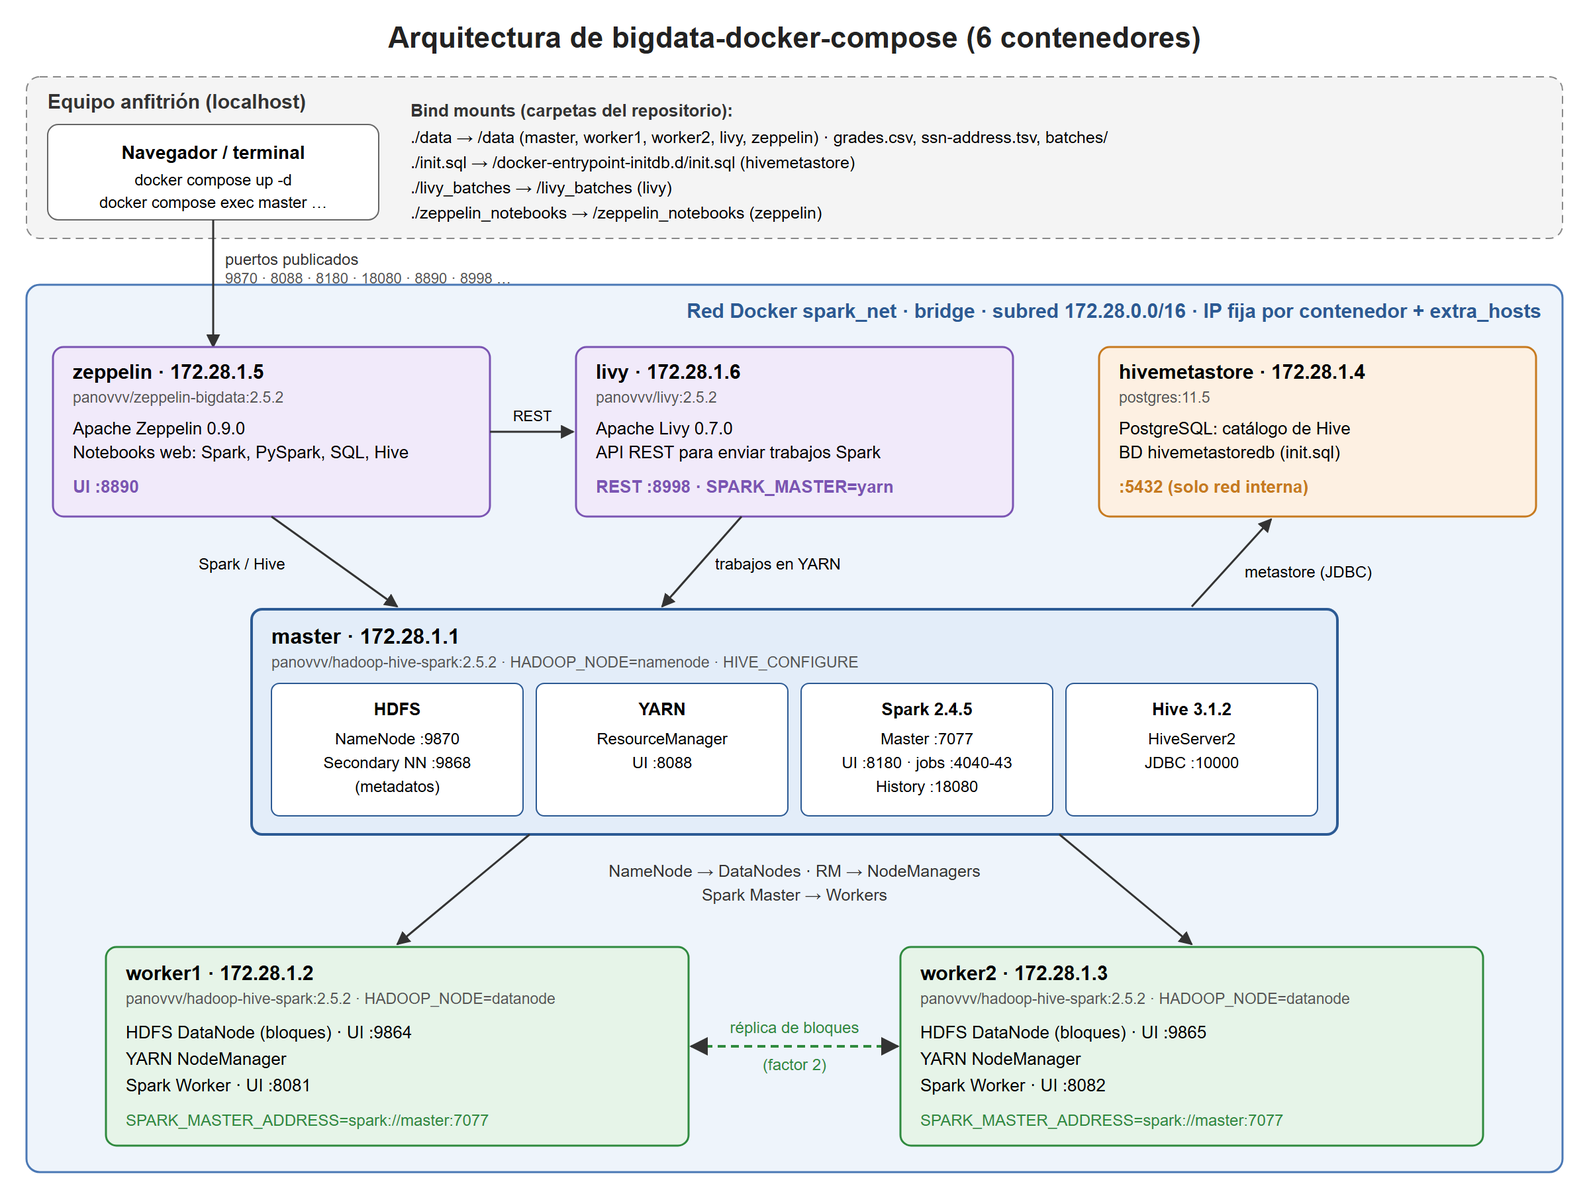
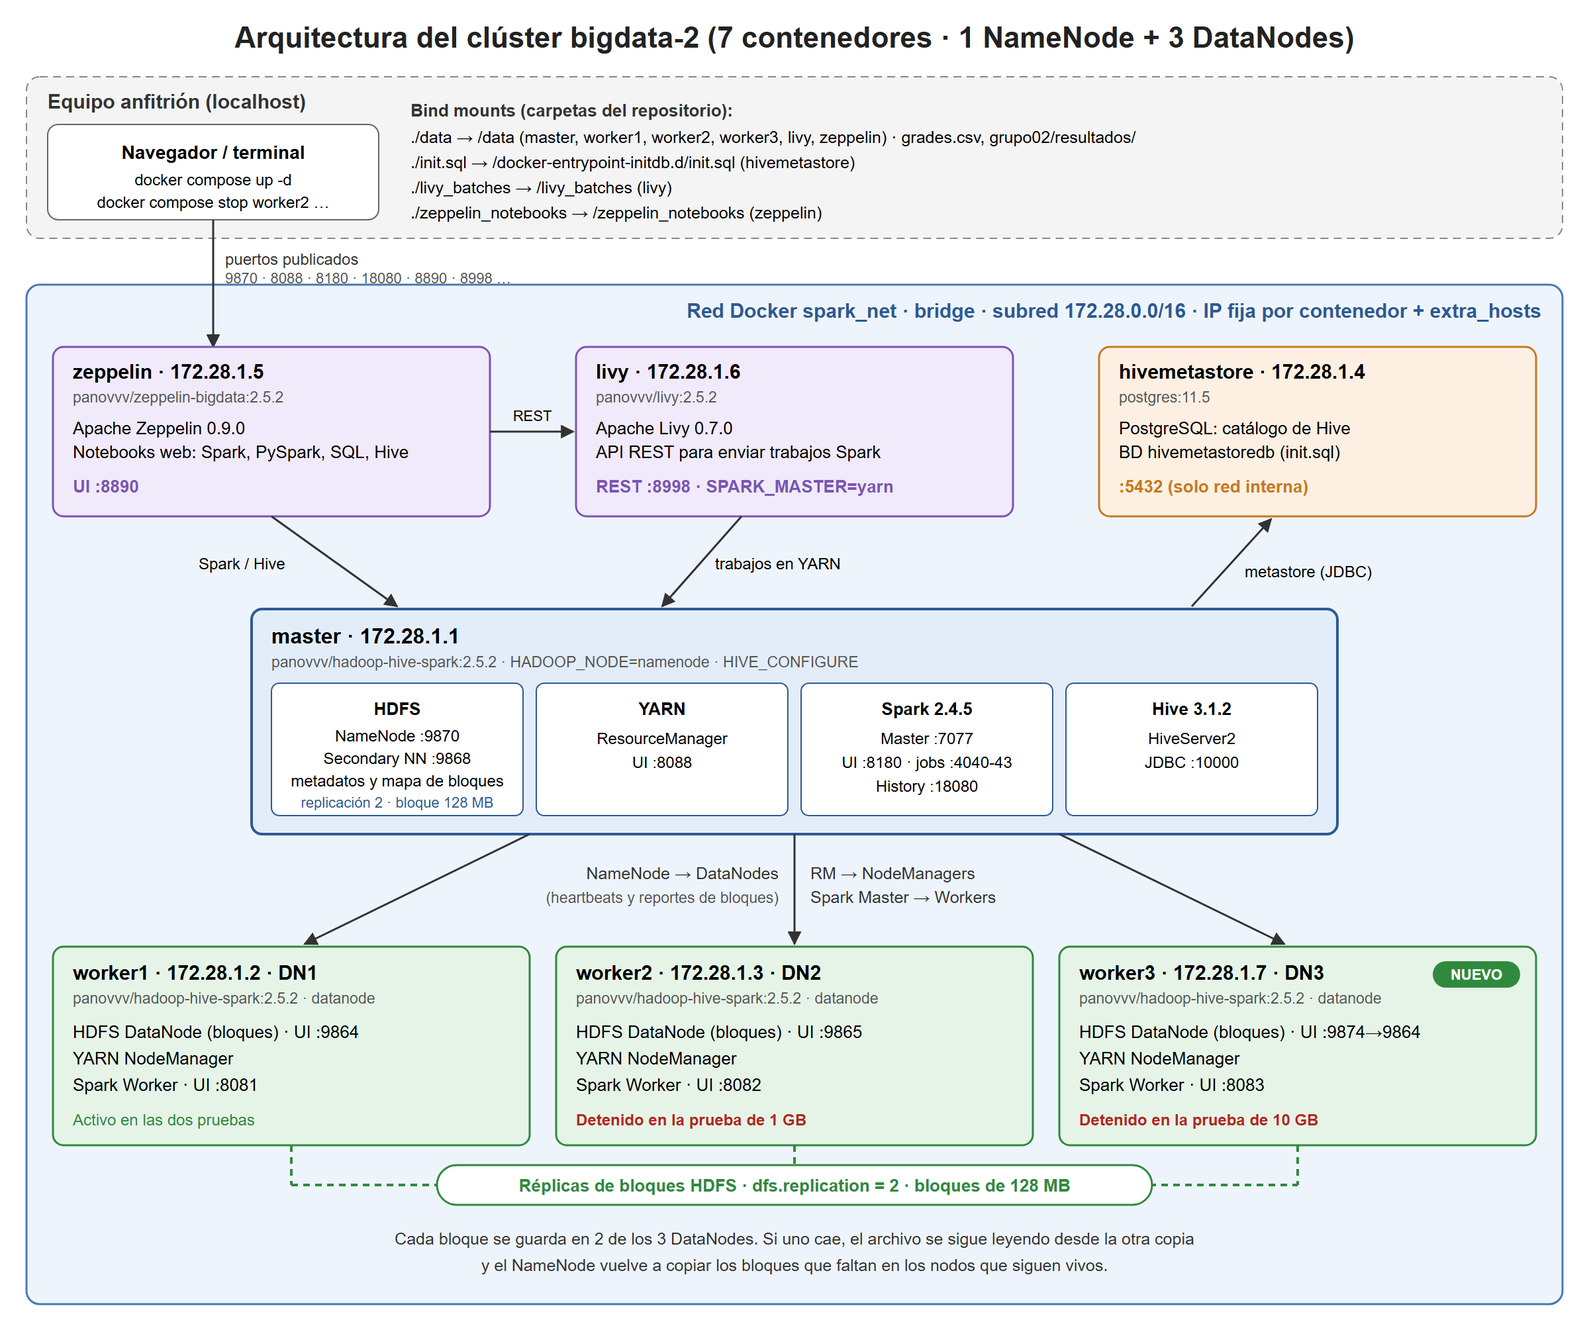
README update

diff --git a/README.md b/README.md
@@ -1,11 +1,14 @@
 # bigdata-2
 
 **LG14: investigación y despliegue de un repositorio Big Data con Docker**
-Universidad Privada del Valle
+**LG15: tolerancia a fallos y replicación de datos en HDFS**
+Universidad Privada del Valle · **Grupo 02**
 
 **Integrantes:** Antonio Santiago Sanchez Angulo, Bonny Alberto Crespo Romero y Mateo Alejandro Valeriano Sanchez
 
 Este repositorio documenta el despliegue y la prueba de **[panovvv/bigdata-docker-compose](https://github.com/panovvv/bigdata-docker-compose)**. Ese proyecto levanta, con un solo `docker compose up -d`, un clúster Big Data con **Hadoop (HDFS + YARN), Hive, Spark, Livy y Zeppelin**.
+
+Para la LG15 ampliamos el clúster a **1 NameNode + 3 DataNodes** (se agregó `worker3`) con factor de replicación 2. Después apagamos un DataNode mientras HDFS guardaba archivos de 1 GB y de 10 GB, para ver qué pasa con los datos. Los resultados están en la [sección 7](#7-lg15-tolerancia-a-fallos-y-replicación-en-hdfs).
 
 ---
 
@@ -46,12 +49,12 @@ Fuente editable: [`docs/arquitectura.svg`](docs/arquitectura.svg)
 
 El clúster sigue el modelo **maestro / trabajadores**:
 - `master` concentra los servicios que coordinan: NameNode, ResourceManager, Spark Master y HiveServer2.
-- `worker1` y `worker2` guardan los datos (DataNode) y ejecutan las tareas (NodeManager y Spark Worker).
+- `worker1`, `worker2` y `worker3` guardan los datos (DataNode) y ejecutan las tareas (NodeManager y Spark Worker). `worker3` se agregó en la LG15 para tener 3 DataNodes.
 - Alrededor hay tres servicios de apoyo: PostgreSQL para el catálogo de Hive, Livy (API REST) y Zeppelin (notebooks).
 
 ### Contenedores
 
-Docker Compose crea **6 contenedores**, llamados `<carpeta>-<servicio>-1` (por ejemplo `bigdata-2-master-1`).
+Docker Compose crea **7 contenedores**, llamados `<carpeta>-<servicio>-1` (por ejemplo `bigdata-2-master-1`).
 
 | Servicio | Imagen | IP (spark_net) | Función | Puertos publicados en el host |
 |---|---|---|---|---|
@@ -59,16 +62,17 @@ Docker Compose crea **6 contenedores**, llamados `<carpeta>-<servicio>-1` (por e
 | `master` | panovvv/hadoop-hive-spark:2.5.2 | 172.28.1.1 | NameNode y Secondary NameNode (HDFS), ResourceManager (YARN), Spark Master, Spark History Server y HiveServer2 | 9870, 9868, 8088, 8180→8080, 4040-4043, 18080, 10000 |
 | `worker1` | panovvv/hadoop-hive-spark:2.5.2 | 172.28.1.2 | DataNode (guarda los bloques), NodeManager y Spark Worker | 9864, 8081 |
 | `worker2` | panovvv/hadoop-hive-spark:2.5.2 | 172.28.1.3 | Igual que worker1. Permite replicar los bloques con factor 2 | 9865, 8082 |
+| `worker3` | panovvv/hadoop-hive-spark:2.5.2 | 172.28.1.7 | Tercer DataNode, agregado en la LG15. Permite que HDFS re-replique cuando cae otro nodo | 9874→9864, 8083 |
 | `livy` | panovvv/livy:2.5.2 | 172.28.1.6 | API REST para enviar sesiones y trabajos Spark a YARN | 8998 |
 | `zeppelin` | panovvv/zeppelin-bigdata:2.5.2 | 172.28.1.5 | Notebooks web para Spark (Scala, PySpark, SQL) y Hive | 8890 |
 
-`master`, `worker1`, `worker2` y `livy` declaran `expose: 1-65535`: todos sus puertos son accesibles **dentro** de la red. Por ejemplo, el puerto 7077 del Spark Master, al que se conectan los workers, no se publica al host.
+`master`, los tres workers y `livy` declaran `expose: 1-65535`: todos sus puertos son accesibles **dentro** de la red. Por ejemplo, el puerto 7077 del Spark Master, al que se conectan los workers, no se publica al host.
 
 ### Red
 
 - Una sola red personalizada, `spark_net` (driver bridge, IPAM con subred `172.28.0.0/16`). Docker la nombra `<carpeta>_spark_net`.
-- Cada contenedor tiene una **IP fija** (`ipv4_address`), de 172.28.1.1 a 172.28.1.6.
-- Cada servicio declara `extra_hosts`, que agrega al `/etc/hosts` los nombres `master`, `worker1`, `worker2`, `hivemetastore`, `livy` y `zeppelin`. Es necesario porque Hadoop y Spark identifican a los nodos por nombre de host.
+- Cada contenedor tiene una **IP fija** (`ipv4_address`), de 172.28.1.1 a 172.28.1.7 (`worker3` usa la 172.28.1.7).
+- Cada servicio declara `extra_hosts`, que agrega al `/etc/hosts` los nombres `master`, `worker1`, `worker2`, `worker3`, `hivemetastore`, `livy` y `zeppelin`. Es necesario porque Hadoop y Spark identifican a los nodos por nombre de host.
 
 ### Volúmenes
 
@@ -76,7 +80,7 @@ No hay volúmenes con nombre; solo **bind mounts** (carpetas del repositorio mon
 
 | Origen (host) | Destino (contenedor) | Contenedores | Uso |
 |---|---|---|---|
-| `./data` | `/data` | master, worker1, worker2, livy, zeppelin | Datos de ejemplo (`grades.csv`, `ssn-address.tsv`) y `batches/sample_batch.py` |
+| `./data` | `/data` | master, worker1, worker2, worker3, livy, zeppelin | Datos de ejemplo (`grades.csv`, `ssn-address.tsv`), `batches/sample_batch.py` y los resultados de la LG15 (`grupo02/resultados/`) |
 | `./init.sql` | `/docker-entrypoint-initdb.d/init.sql` | hivemetastore | PostgreSQL lo ejecuta en el primer arranque y crea la BD `hivemetastoredb` |
 | `./livy_batches` | `/livy_batches` | livy | Trabajos batch para Livy |
 | `./zeppelin_notebooks` | `/zeppelin_notebooks` | zeppelin | Notebooks de Zeppelin (persisten en el host) |
@@ -86,12 +90,12 @@ Consecuencia: los bloques y metadatos de HDFS y la base del metastore viven **de
 ### Dependencias entre servicios (`depends_on`)
 
 ```
-hivemetastore ──► master, worker1, worker2 ──► livy ──► zeppelin
+hivemetastore ──► master, worker1, worker2, worker3 ──► livy ──► zeppelin
 ```
 
 | Servicio | Arranca después de |
 |---|---|
-| `master`, `worker1`, `worker2` | `hivemetastore` |
+| `master`, `worker1`, `worker2`, `worker3` | `hivemetastore` |
 | `livy` | `master`, `worker1`, `worker2` |
 | `zeppelin` | `master`, `worker1`, `worker2`, `livy` |
 
@@ -105,12 +109,13 @@ hivemetastore ──► master, worker1, worker2 ──► livy ──► zeppel
 | master | `HADOOP_NODE` | `namenode` | Hace que la imagen arranque como nodo maestro (NameNode, ResourceManager…) |
 | master | `HIVE_CONFIGURE` | `yes, please` | Configura e inicia Hive (HiveServer2 + metastore en PostgreSQL) |
 | master | `SPARK_MASTER_HOST`, `SPARK_LOCAL_IP` | `172.28.1.1` | IP en la que escucha el Spark Master |
-| master / workers | `SPARK_LOCAL_HOSTNAME` | `master` / `worker1` / `worker2` | Nombre con el que Spark se anuncia |
+| master / workers | `SPARK_LOCAL_HOSTNAME` | `master` / `worker1` / `worker2` / `worker3` | Nombre con el que Spark se anuncia |
 | master / workers | `SPARK_PUBLIC_DNS` | `localhost` | Para que los enlaces de las UIs de Spark apunten a localhost |
 | workers | `HADOOP_NODE` | `datanode` | Arranca DataNode y NodeManager |
 | workers | `SPARK_MASTER_ADDRESS` | `spark://master:7077` | Master al que se registra el Spark Worker |
-| workers | `SPARK_WORKER_PORT` / `SPARK_WORKER_WEBUI_PORT` | 8881/8081 y 8882/8082 | Puertos distintos para cada worker |
+| workers | `SPARK_WORKER_PORT` / `SPARK_WORKER_WEBUI_PORT` | 8881/8081, 8882/8082 y 8883/8083 | Puertos distintos para cada worker |
 | worker2 | `HADOOP_DATANODE_UI_PORT` | `9865` | Evita el choque con el 9864 de worker1 en el host |
+| worker3 | (mapeo de puertos) | `9874:9864` | La UI del DataNode sigue en el 9864 dentro del contenedor y se publica en el 9874 del host |
 | livy | `SPARK_MASTER` | `yarn` | Livy envía los trabajos Spark a YARN |
 | livy | `LOCAL_DIR_WHITELIST` | `/data/batches/` | Carpeta desde la que Livy puede ejecutar scripts |
 | livy | `ENABLE_HIVE_CONTEXT` | `false` | Sesiones Spark sin soporte de Hive |
@@ -121,7 +126,7 @@ hivemetastore ──► master, worker1, worker2 ──► livy ──► zeppel
 
 | Archivo | Descripción |
 |---|---|
-| [`docker-compose.yml`](docker-compose.yml) | Define los 6 servicios, sus imágenes, puertos, variables de entorno, volúmenes, dependencias y la red `spark_net`. Usa `version: "3.7"`; Compose v2 avisa que ese atributo es obsoleto y lo ignora |
+| [`docker-compose.yml`](docker-compose.yml) | Define los 7 servicios (incluido `worker3`), sus imágenes, puertos, variables de entorno, volúmenes, dependencias y la red `spark_net`. Usa `version: "3.7"`; Compose v2 avisa que ese atributo es obsoleto y lo ignora |
 | [`init.sql`](init.sql) | `CREATE DATABASE "hivemetastoredb";`: crea la base que usa el Hive Metastore |
 | [`data/batches/sample_batch.py`](data/batches/sample_batch.py) | Trabajo PySpark de ejemplo para enviar con Livy |
 | `*-site.xml` (dentro de la imagen) | `core-site.xml`, `hdfs-site.xml`, `yarn-site.xml`, `hive-site.xml` y `spark-defaults.conf` no están en este repositorio: vienen dentro de la imagen `panovvv/hadoop-hive-spark`, y el script de arranque (`/entrypoint.sh`) aplica las variables de entorno de cada servicio |
@@ -130,12 +135,19 @@ hivemetastore ──► master, worker1, worker2 ──► livy ──► zeppel
 
 ```
 bigdata-2/
-├── docker-compose.yml     # Definición del clúster (6 servicios, red spark_net)
+├── docker-compose.yml     # Definición del clúster (7 servicios, 3 DataNodes, red spark_net)
 ├── init.sql               # Crea la BD hivemetastoredb en PostgreSQL
 ├── data/                  # Montado en /data
 │   ├── grades.csv
 │   ├── ssn-address.tsv
-│   └── batches/sample_batch.py
+│   ├── batches/sample_batch.py
+│   └── grupo02/resultados/          # Evidencias de la LG15
+│       ├── 1GB_antes.txt            # fsck antes de apagar worker2
+│       ├── 1GB_despues.txt          # fsck después de la re-replicación
+│       ├── 1GB_linea_tiempo.txt     # cronología de la prueba de 1 GB
+│       ├── 10GB_antes.txt           # fsck antes de apagar worker3
+│       ├── 10GB_despues.txt         # fsck después de la re-replicación
+│       └── 10GB_linea_tiempo.txt    # cronología de la prueba de 10 GB
 └── docs/
     ├── arquitectura.png   # Diagrama de arquitectura
     └── arquitectura.svg   # Diagrama (fuente editable)
@@ -143,7 +155,7 @@ bigdata-2/
 
 ## 5. Instalación y ejecución
 
-**Requisitos:** Docker Desktop con Docker Compose v2, unos 10 GB libres para las imágenes y **al menos 8 GB de RAM asignados a Docker**, como recomienda el autor del proyecto original.
+**Requisitos:** Docker Desktop con Docker Compose v2, unos 10 GB libres para las imágenes y **al menos 8 GB de RAM asignados a Docker**, como recomienda el autor del proyecto original. Para la prueba de 10 GB de la LG15 hacen falta unos **35 GB libres** más: el archivo ocupa 20 GB en HDFS por las 2 réplicas, y además se genera una vez en local.
 
 ```bash
 # 1. Clonar e ingresar al repositorio
@@ -157,11 +169,12 @@ cat docker-compose.yml
 # 3. Construir y ejecutar (descarga las imágenes la primera vez)
 docker compose up -d
 
-# 4. Verificar los contenedores
+# 4. Verificar los contenedores (deben aparecer 7, incluido worker3)
 docker ps
 
 # 5. Entrar al nodo maestro para usar HDFS
 docker compose exec master bash
+#    En Git Bash para Windows: winpty docker compose exec master bash
 
 # 6. Apagar el clúster (borra los datos de HDFS)
 docker compose down
@@ -175,14 +188,14 @@ Interfaces web:
 | YARN ResourceManager | http://localhost:8088 |
 | Spark Master | http://localhost:8180 |
 | Spark History Server | http://localhost:18080 |
-| DataNodes | http://localhost:9864 · http://localhost:9865 |
-| Spark Workers | http://localhost:8081 · http://localhost:8082 |
+| DataNodes | http://localhost:9864 · http://localhost:9865 · http://localhost:9874 |
+| Spark Workers | http://localhost:8081 · http://localhost:8082 · http://localhost:8083 |
 | Zeppelin | http://localhost:8890 |
 | Livy | http://localhost:8998 |
 
 ## 6. Prueba funcional (HDFS)
 
-Comandos ejecutados dentro del contenedor `master`:
+Esta prueba es de la LG14, cuando el clúster todavía tenía 2 DataNodes. Comandos ejecutados dentro del contenedor `master`:
 
 ```bash
 hdfs dfsadmin -report                              # estado del clúster
@@ -210,23 +223,136 @@ hdfs fsck /user/grupo/prueba -files -blocks -locations
 - El archivo ocupa un solo bloque de 764 bytes. HDFS no reserva los 128 MB del tamaño de bloque.
 - Los avisos `SLF4J: multiple bindings` y `Unable to load native-hadoop library` son informativos. El estado `unhealthy` que muestra `docker ps` en algunos contenedores viene del healthcheck de la imagen y no afectó a HDFS.
 
-## 7. Comparación con big-data-europe/docker-hadoop
+## 7. LG15: tolerancia a fallos y replicación en HDFS
+
+**Objetivo:** comprobar con evidencias qué le pasa a un archivo guardado en HDFS cuando se cae uno de los DataNodes. Usamos un clúster de 1 NameNode y 3 DataNodes, factor de replicación 2, y archivos de 1 GB y 10 GB.
+
+### 7.1 Configuración
+
+| Componente | Requerido | Implementado |
+|---|---|---|
+| NameNode | 1 | `master` (172.28.1.1) |
+| DataNodes | 3 | `worker1` (DN1, 172.28.1.2), `worker2` (DN2, 172.28.1.3) y `worker3` (DN3, 172.28.1.7) |
+| Factor de replicación | ≥ 2 | `dfs.replication = 2` |
+| Tamaño de bloque | – | `dfs.blocksize = 134217728` (128 MB) |
+| Datasets | 1 GB y 10 GB | `dataset_grupo02_1GB` y `dataset_grupo02_10GB` |
+| Pruebas de fallo | 2 | Se apagó worker2 con 1 GB y worker3 con 10 GB |
+
+Para agregar `worker3` copiamos el servicio `worker2` en [`docker-compose.yml`](docker-compose.yml) y cambiamos tres cosas: la IP (172.28.1.7), los puertos de Spark (8883/8083) y la UI del DataNode, que se publica en el 9874 del host. También agregamos `worker3` a los `extra_hosts` de todos los servicios.
+
+En HDFS usamos los directorios del grupo:
+
+```
+/grupo02/dataset_1GB/dataset_grupo02_1GB
+/grupo02/dataset_10GB/dataset_grupo02_10GB
+/grupo02/resultados/
+/grupo02/evidencias/
+```
+
+### 7.2 Procedimiento
+
+Dentro de `master` (`winpty docker compose exec master bash`):
+
+```bash
+# Verificar la configuración y los 3 DataNodes
+hdfs getconf -confKey dfs.replication
+hdfs getconf -confKey dfs.blocksize
+hdfs dfsadmin -report | grep -E "Live datanodes|Dead datanodes|^Name:"
+
+# Crear los directorios del grupo
+hdfs dfs -mkdir -p /grupo02/dataset_1GB /grupo02/dataset_10GB /grupo02/resultados /grupo02/evidencias
+
+# Generar y cargar el dataset (para el de 10 GB: count=10240 y carpeta dataset_10GB)
+dd if=/dev/urandom of=/tmp/dataset_grupo02_1GB bs=1M count=1024
+hdfs dfs -put /tmp/dataset_grupo02_1GB /grupo02/dataset_1GB/
+rm /tmp/dataset_grupo02_1GB
+
+# Estado inicial: bloques, réplicas y MD5 de referencia
+hdfs fsck /grupo02/dataset_1GB -files -blocks -locations > /data/grupo02/resultados/1GB_antes.txt
+hdfs dfs -cat /grupo02/dataset_1GB/dataset_grupo02_1GB | md5sum
+```
+
+Desde el host se apaga un DataNode:
+
+```bash
+docker compose stop worker2      # en la prueba de 10 GB: docker compose stop worker3
+```
+
+Durante la falla y después, otra vez dentro de `master`:
+
+```bash
+hdfs dfs -cat /grupo02/dataset_1GB/dataset_grupo02_1GB | md5sum   # ¿se sigue leyendo igual?
+hdfs dfsadmin -report | grep -E "Live datanodes|Dead datanodes"    # ¿cuándo se marca como Dead?
+hdfs fsck /grupo02/dataset_1GB | grep -E "Under-replicated|Status" # bloques subreplicados
+hdfs fsck /grupo02/dataset_1GB -files -blocks -locations > /data/grupo02/resultados/1GB_despues.txt
+```
+
+En el host, el log del NameNode muestra el momento en que el nodo se da por perdido:
+
+```bash
+docker compose logs master | grep -i removeDeadDatanode
+```
+
+Antes de la segunda prueba volvimos a encender el nodo (`docker compose start worker2`) y esperamos a que hubiera otra vez 3 DataNodes vivos.
+
+### 7.3 Prueba con el dataset de 1 GB (se apagó worker2)
+
+- **Antes:** el archivo tenía 8 bloques de 128 MB con 2 réplicas cada uno. worker1 tenía 7 réplicas, worker2 tenía 3 y worker3 tenía 6. Estado HEALTHY.
+- **Falla:** a las 23:14 UTC apagamos worker2, que tenía los bloques 2, 4 y 7. Todos tenían otra copia en un nodo vivo, así que el archivo se siguió leyendo y el MD5 salió igual al original (`0407df4651d944618f0d997188a084bd`).
+- **Detección:** durante unos 10 minutos el NameNode siguió mostrando 3 nodos vivos. A las 23:25 worker2 apareció como Dead, y a las 23:30 el NameNode lo sacó del mapa de bloques. En ese momento aparecieron 3 bloques subreplicados.
+- **Recuperación:** HDFS copió solo el bloque 2 a worker1 y los bloques 4 y 7 a worker3. A las 23:32 ya no quedaban bloques subreplicados. Al final worker1 y worker3 tenían los 8 bloques cada uno.
+
+Evidencias: [`1GB_antes.txt`](data/grupo02/resultados/1GB_antes.txt) · [`1GB_despues.txt`](data/grupo02/resultados/1GB_despues.txt) · [`1GB_linea_tiempo.txt`](data/grupo02/resultados/1GB_linea_tiempo.txt)
+
+### 7.4 Prueba con el dataset de 10 GB (se apagó worker3)
+
+- **Antes:** 80 bloques de 128 MB con 2 réplicas cada uno. El reparto fue parejo: worker1 tenía 54 réplicas, worker2 tenía 51 y worker3 tenía 55. Estado HEALTHY.
+- **Falla:** a las 00:11 UTC apagamos worker3, que tenía 55 de los 80 bloques. El archivo se siguió leyendo completo y el MD5 coincidió (`92e78edb5c572176b2ac46d48d432a6a`).
+- **Detección:** igual que antes, unos 10 minutos sin cambios. A las 00:22 worker3 apareció como Dead, y a las 00:26 el NameNode lo quitó del mapa. En ese momento había 55 bloques subreplicados.
+- **Recuperación:** los 26 bloques que estaban en worker2 y worker3 se copiaron a worker1, y los 29 que estaban en worker1 y worker3 se copiaron a worker2. Copió casi 7 GB en unos 2 minutos y medio. Al final worker1 y worker2 tenían los 80 bloques cada uno.
+
+Evidencias: [`10GB_antes.txt`](data/grupo02/resultados/10GB_antes.txt) · [`10GB_despues.txt`](data/grupo02/resultados/10GB_despues.txt) · [`10GB_linea_tiempo.txt`](data/grupo02/resultados/10GB_linea_tiempo.txt)
+
+### 7.5 Comparación
+
+| Característica | Dataset 1 GB | Dataset 10 GB |
+|---|---|---|
+| Tamaño | 1 GB | 10 GB |
+| Número de bloques | 8 bloques de 128 MB | 80 bloques de 128 MB |
+| Factor de replicación | 2 | 2 |
+| DataNode afectado | worker2 (DN2) | worker3 (DN3) |
+| Bloques afectados | 3 de 8 (37,5 %) | 55 de 80 (68,75 %) |
+| Bloques disponibles después de la falla | Los 8, con al menos una copia | Los 80, con al menos una copia |
+| ¿Archivo accesible? | Sí, el MD5 coincidió con el original | Sí, el MD5 coincidió con el original |
+| ¿Hubo bloques subreplicados? | Sí, 3 bloques | Sí, 55 bloques |
+| Tiempo de recuperación | Unos 18 minutos (la copia tomó menos de 3) | Unos 17 minutos (la copia tomó unos 2 y medio) |
+| Nuevas réplicas | Bloque 2 en worker1; bloques 4 y 7 en worker3 | 26 bloques en worker1 y 29 en worker2 (casi 7 GB) |
+
+### 7.6 Conclusiones
+
+- **El archivo nunca dejó de estar disponible.** Como cada bloque está en dos nodos distintos, el cliente simplemente lee la copia que sigue viva.
+- **El que coordina todo es el NameNode.** Se da cuenta de la caída cuando dejan de llegar los heartbeats, espera unos 10 minutos para no confundirla con un corte breve y después ordena copiar los bloques que se quedaron con una sola réplica.
+- **Factor 2 no quiere decir dos copias completas del archivo.** HDFS replica por bloques, así que el archivo queda repartido entre los tres nodos y ninguno lo tiene entero.
+- **Disponible no es lo mismo que replicado.** Durante unos 17 o 18 minutos el archivo se podía leer pero sin cumplir el factor 2. Si en ese rato hubiera caído otro nodo, sí se habrían perdido datos.
+- **La mayor parte del tiempo de recuperación es espera, no copia.** Por eso con 10 GB, aunque se movió mucho más volumen, el tiempo total fue parecido: la copia se hizo en paralelo desde los dos nodos que quedaban.
+
+## 8. Comparación con big-data-europe/docker-hadoop
 
 | Característica | [docker-hadoop](https://github.com/big-data-europe/docker-hadoop) | bigdata-docker-compose (seleccionado) |
 |---|---|---|
 | Tecnología principal | Hadoop 3.2.1: HDFS, YARN, MapReduce | Hadoop 3.2.0 (HDFS, YARN) + Hive 3.1.2 + Spark 2.4.5 |
 | Docker | Una imagen por rol (`bde2020/hadoop-*`), Debian 9 | Una imagen para todos los roles + Livy + Zeppelin + Postgres, Alpine 3.10 |
-| Docker Compose | Sí: 5 servicios, red por defecto, config. en `hadoop.env` | Sí: 6 servicios, red `spark_net` con IP fijas, config. en `environment` |
-| Número de contenedores | 5 | 6 |
-| Almacenamiento distribuido | HDFS: 1 NameNode + 1 DataNode | HDFS: 1 NameNode + 2 DataNodes, replicación 2 |
-| Procesamiento distribuido | YARN + MapReduce | YARN + Spark (2 workers), Hive SQL, Livy |
+| Docker Compose | Sí: 5 servicios, red por defecto, config. en `hadoop.env` | Sí: 7 servicios (con worker3), red `spark_net` con IP fijas, config. en `environment` |
+| Número de contenedores | 5 | 7 (6 originales + worker3) |
+| Almacenamiento distribuido | HDFS: 1 NameNode + 1 DataNode | HDFS: 1 NameNode + 3 DataNodes, replicación 2 |
+| Procesamiento distribuido | YARN + MapReduce | YARN + Spark (3 workers), Hive SQL, Livy |
 | Interfaces web | Solo 9870 publicada | Todas publicadas en localhost |
 | Persistencia | Volúmenes con nombre para HDFS | Solo bind mounts; HDFS se pierde con `down` |
 | Complejidad de instalación | Baja | Media (imágenes pesadas, unos 8 GB de RAM) |
 | Documentación | README breve | README extenso con pruebas por componente |
 | Caso de uso | Aprender el núcleo de Hadoop | Laboratorio completo tipo Amazon EMR |
 
-## 8. Créditos
+## 9. Créditos
 
-- Proyecto original: [panovvv/bigdata-docker-compose](https://github.com/panovvv/bigdata-docker-compose), de Vadim Panov (licencia MIT). `docker-compose.yml`, `init.sql` y `data/` provienen de ese repositorio.
+- Proyecto original: [panovvv/bigdata-docker-compose](https://github.com/panovvv/bigdata-docker-compose), de Vadim Panov (licencia MIT). `docker-compose.yml`, `init.sql` y `data/` provienen de ese repositorio. El grupo agregó el servicio `worker3` y los resultados de `data/grupo02/`.
 - Referencia de comparación: [big-data-europe/docker-hadoop](https://github.com/big-data-europe/docker-hadoop).
